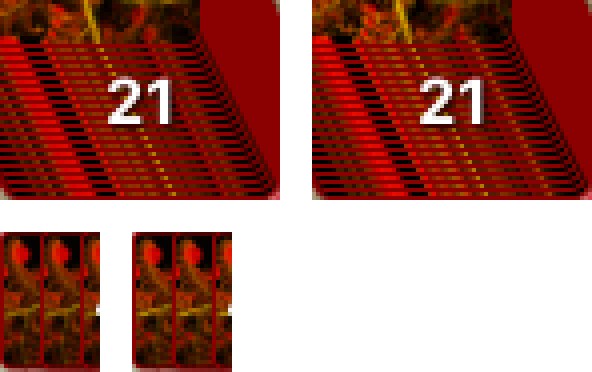
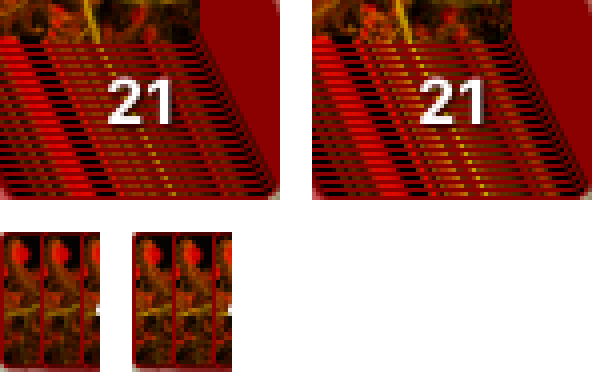
cdom_poc textures: the wood is two pictures of one tile, the table's surfaces (back, pills) and the end screen's (--tex-wood-end), the end screen's made last; tools wait for app_tex_count() textures; the surface test checks each against its own picture's rectangles; textime.mjs BEFORE arm

diff --git a/foolish/c/cdom_poc/src/table_app.c b/foolish/c/cdom_poc/src/table_app.c
@@ -104,7 +104,10 @@ static void deal_new(void) {
   game_seat_and_deal(&G, keys, 2);
 }
 
-enum { TEX_FERN, TEX_WOOD, TEX_WOOL, TEX_DONE }; /* the textures (TEX_ORDER: the order they are made) */
+/* The textures (TEX_ORDER: the order they are made). The wood is two pictures of the same tile:
+ * the surfaces on the table (the back button, the pills), and those of the end screen, which is
+ * made last and shown much later; each is worked out only where its surfaces are. */
+enum { TEX_FERN, TEX_WOOD, TEX_WOOL, TEX_WOOD_END, TEX_DONE, NTEX = TEX_DONE };
 
 static int my_turn_owed(void) { return bot_drive_eligible_mask(&G, game_human_mask(&G)) == 0; }
 
@@ -500,13 +503,16 @@ static void wood_offset(double seed, int32_t *x, int32_t *y) {
   if (sy > WOOD_H - 60) *y = 60;
 }
 
-/* TexturedSurface.tsx getTextureStyle: the wood once it is made (--tex-wood), the stripes before. */
-static cd_str wood_style(double seed) {
+/* TexturedSurface.tsx getTextureStyle: the wood once it is made (--tex-wood, or --tex-wood-end on
+ * the end screen), the stripes before. */
+static cd_str wood_style(double seed, int end) {
   static SB s;
   int32_t x, y;
   wood_offset(seed, &x, &y);
   sb_reset(&s);
-  sb_s(&s, "background-color: rgb(195, 63, 8); background-image: var(--tex-wood, repeating-linear-gradient(90deg, transparent, "
+  sb_s(&s, "background-color: rgb(195, 63, 8); background-image: var(");
+  sb_s(&s, end ? "--tex-wood-end" : "--tex-wood");
+  sb_s(&s, ", repeating-linear-gradient(90deg, transparent, "
            "transparent 1px, rgba(0, 0, 0, 0.1) 1px, rgba(0, 0, 0, 0.1) 2px)); background-size: 1920px 1080px; "
            "background-position: ");
   sb_i(&s, x); sb_s(&s, "px "); sb_i(&s, y);
@@ -525,7 +531,7 @@ static cd_id pill_create(void *ctx, uint32_t i, uint32_t *data) {
   cd_listen(btn, CD_EV_CLICK);
   cd_tag_set(btn, TAG_PILL | PILL[p].bit);
   CLASS("btn-action");
-  cd_attr(S_STYLE, wood_style(PILL[p].seed));
+  cd_attr(S_STYLE, wood_style(PILL[p].seed, 0));
   cd_attr(ZS("data-pill"), cd_internz(PILL[p].label));
   OPEN("span"); CLASS("btn-action-text"); OPEN("span"); cd_text(cd_internz(PILL[p].label)); CLOSE(); CLOSE();
   CLOSE();
@@ -829,13 +835,13 @@ static void render_end(void) {
   cd_text(fool == ME ? ZS("You are the fool") : fool < 0 ? ZS("A draw") : ZS("You won"));
   CLOSE();
   OPEN("div"); CLASS("win-screen__results"); STYLE("width: min(360px, 90vw);");
-  OPEN("div"); CLASS("bg-wood"); cd_attr(S_STYLE, wood_style(SEED_RESULTS)); CLOSE();
+  OPEN("div"); CLASS("bg-wood"); cd_attr(S_STYLE, wood_style(SEED_RESULTS, 1)); CLOSE();
   for (int s = 0; s < V->num_players; s++) if (s != fool) result_row("\xF0\x9F\xA5\x87", s);
   if (fool >= 0) result_row("\xF0\x9F\x83\x8F", fool);
   CLOSE();
   cd_id again = cd_id_new();
   OPEN("button"); cd_listen(again, CD_EV_CLICK); cd_tag_set(again, TAG_AGAIN);
-  CLASS("btn-wood btn-wood--lg"); cd_attr(S_STYLE, wood_style(SEED_AGAIN));
+  CLASS("btn-wood btn-wood--lg"); cd_attr(S_STYLE, wood_style(SEED_AGAIN, 1));
   OPEN("span"); CLASS("btn-wood-text"); OPEN("span"); TEXT("Play again"); CLOSE(); CLOSE();
   CLOSE();
   CLOSE();
@@ -1000,16 +1006,16 @@ enum { PILL_SPAN_W = 76, PILL_SPAN_H = 52 };
 enum { NPILL = sizeof PILL / sizeof *PILL, NSURF = sizeof WOOD_SURF / sizeof *WOOD_SURF };
 enum { WOOD_MARGIN = 4 }; /* a border's width either side, and then some */
 static struct {
-  int stage, nrect;
+  int stage, nrect, nrect_now; /* rect[0, nrect_now): the table's wood; the rest: the end screen's */
   uint8_t *block;
   float *col;
   Fern fern; Wood wood; Wool wool;
-  int32_t fern_w, fern_h, landed, from_store[3];
+  int32_t fern_w, fern_h, landed, from_store[NTEX];
   TexRect rect[WOOD_MAX_WIN];
-  double ms[3], at[3];
-  uint32_t seed[3];
-  char key[3][48];
-  uint32_t klen[3];
+  double ms[NTEX], at[NTEX];
+  uint32_t seed[NTEX];
+  char key[NTEX][48];
+  uint32_t klen[NTEX];
 } tex;
 static uint32_t tex_seed;
 
@@ -1033,11 +1039,12 @@ static void wood_rects_add(TexRect *out, int *n, double seed, int32_t sw, int32_
   }
 }
 
-/* The back button first (it is on the first screen), then the pills, then the end screen. */
-static int wood_rects(TexRect *out) {
+/* The table's surfaces (the back button, the pills), then the end screen's (*now: where they start). */
+static int wood_rects(TexRect *out, int *now) {
   int n = 0;
   wood_rects_add(out, &n, WOOD_SURF[0].seed, WOOD_SURF[0].w, WOOD_SURF[0].h);
   for (int k = 0; k < NPILL; k++) wood_rects_add(out, &n, PILL[k].seed, PILL_SPAN_W, PILL_SPAN_H);
+  *now = n;
   for (int k = 1; k < NSURF; k++) wood_rects_add(out, &n, WOOD_SURF[k].seed, WOOD_SURF[k].w, WOOD_SURF[k].h);
   return n;
 }
@@ -1052,9 +1059,10 @@ static void tex_start(int stage) {
     int32_t points = (int32_t)((double)FERN_APP_POINTS * tex.fern_w * tex.fern_h / (FERN_APP_W * FERN_APP_H));
     fern_begin(&tex.fern, b, b + tex.fern_w * tex.fern_h * 4, tex.fern_w, tex.fern_h, points, rng);
   }
-  if (stage == TEX_WOOD) {
+  if (stage == TEX_WOOD || stage == TEX_WOOD_END) {
     double ox = tex_random(&rng) * 1000 - 500, oy = tex_random(&rng) * 1000 - 500;
-    wood_begin(&tex.wood, tex.col, b, WOOD_W, WOOD_H, ox, oy, tex.rect, tex.nrect);
+    int from = stage == TEX_WOOD ? 0 : tex.nrect_now, to = stage == TEX_WOOD ? tex.nrect_now : tex.nrect;
+    wood_begin(&tex.wood, tex.col, b, WOOD_W, WOOD_H, ox, oy, tex.rect + from, to - from);
   }
   if (stage == TEX_WOOL) {
     tex_random(&rng); tex_random(&rng);
@@ -1067,8 +1075,8 @@ static void tex_start(int stage) {
  * key that names the generator's version and everything the picture depends on (the fern's size,
  * the wood's rectangles), as the app keeps its own in TextureCacheDB; a later load sets the
  * stored bytes and generates nothing. The stored value is the image file. */
-static const char *const TEX_PROP[3] = {"--tex-fern", "--tex-wood", "--tex-wool"};
-static const char *const TEX_MIME[3] = {"image/png", "image/png", "image/jpeg"};
+static const char *const TEX_PROP[NTEX] = {"--tex-fern", "--tex-wood", "--tex-wool", "--tex-wood-end"};
+static const char *const TEX_MIME[NTEX] = {"image/png", "image/png", "image/jpeg", "image/png"};
 
 static void key_add(char *k, uint32_t *n, const char *s) { while (*s && *n < 47) k[(*n)++] = *s++; }
 static void key_num(char *k, uint32_t *n, uint32_t v) {
@@ -1077,16 +1085,19 @@ static void key_num(char *k, uint32_t *n, uint32_t v) {
   while (m && *n < 47) k[(*n)++] = d[--m];
 }
 static void tex_keys(void) {
-  static const char *const NAME[3] = {"foolish-tex-fern-v1-", "foolish-tex-wood-v1-", "foolish-tex-wool-v1-"};
-  for (int k = 0; k < 3; k++) { tex.klen[k] = 0; key_add(tex.key[k], &tex.klen[k], NAME[k]); }
+  static const char *const NAME[NTEX] = {"foolish-tex-fern-v1-", "foolish-tex-wood-v1-", "foolish-tex-wool-v1-", "foolish-tex-wood-v1-"};
+  for (int k = 0; k < NTEX; k++) { tex.klen[k] = 0; key_add(tex.key[k], &tex.klen[k], NAME[k]); }
   key_num(tex.key[0], &tex.klen[0], (uint32_t)tex.fern_w); key_add(tex.key[0], &tex.klen[0], "x");
   key_num(tex.key[0], &tex.klen[0], (uint32_t)tex.fern_h);
-  uint32_t h = 2166136261u; /* FNV-1a over the rectangles */
-  for (int k = 0; k < tex.nrect; k++) {
-    const int32_t v[4] = {tex.rect[k].x, tex.rect[k].y, tex.rect[k].w, tex.rect[k].h};
-    for (int f = 0; f < 4; f++) for (int byte = 0; byte < 4; byte++) h = (h ^ ((uint32_t)v[f] >> (8 * byte) & 0xff)) * 16777619u;
+  for (int part = 0; part < 2; part++) { /* the woods, by FNV-1a over their rectangles */
+    uint32_t h = 2166136261u;
+    for (int k = part ? tex.nrect_now : 0; k < (part ? tex.nrect : tex.nrect_now); k++) {
+      const int32_t v[4] = {tex.rect[k].x, tex.rect[k].y, tex.rect[k].w, tex.rect[k].h};
+      for (int f = 0; f < 4; f++) for (int byte = 0; byte < 4; byte++) h = (h ^ ((uint32_t)v[f] >> (8 * byte) & 0xff)) * 16777619u;
+    }
+    int k = part ? TEX_WOOD_END : TEX_WOOD;
+    key_num(tex.key[k], &tex.klen[k], h);
   }
-  key_num(tex.key[1], &tex.klen[1], h);
   key_num(tex.key[2], &tex.klen[2], WOOL_W); key_add(tex.key[2], &tex.klen[2], "x"); key_num(tex.key[2], &tex.klen[2], WOOL_H);
 }
 
@@ -1100,7 +1111,7 @@ static void tex_land(int k, const uint8_t *p, uint32_t len) {
 }
 
 /* The fern (small, on the card backs), the wool (the whole background), then the wood (the buttons). */
-static const int TEX_ORDER[4] = {TEX_FERN, TEX_WOOL, TEX_WOOD, TEX_DONE};
+static const int TEX_ORDER[NTEX + 1] = {TEX_FERN, TEX_WOOL, TEX_WOOD, TEX_WOOD_END, TEX_DONE};
 static int tex_step, tex_may_make, tex_waiting;
 
 /* The next texture: asked of the store first. */
@@ -1162,7 +1173,7 @@ void cd_on_raf(uint32_t token, double t) {
   int done = 0;
   while (!done && now - t0 < TEX_SLICE_MS) {
     if (tex.stage == TEX_FERN) done = fern_run(&tex.fern, 100000);
-    else if (tex.stage == TEX_WOOD) done = wood_run(&tex.wood, 2);
+    else if (tex.stage == TEX_WOOD || tex.stage == TEX_WOOD_END) done = wood_run(&tex.wood, 2);
     else done = wool_run(&tex.wool, 100000);
     now = cd_now();
   }
@@ -1170,7 +1181,7 @@ void cd_on_raf(uint32_t token, double t) {
   if (!done) { cd_raf_request(RAF_SLICE); return; }
   /* the pixels are copied during the call, so the block is free for the next texture at once */
   if (tex.stage == TEX_FERN) cd_encode_image(tex.fern.px, (uint32_t)tex.fern_w, (uint32_t)tex.fern_h, 4, ZS("image/png"), TEX_FERN);
-  if (tex.stage == TEX_WOOD) cd_encode_image(tex.wood.px, WOOD_W, WOOD_H, 3, ZS("image/png"), TEX_WOOD);
+  if (tex.stage == TEX_WOOD || tex.stage == TEX_WOOD_END) cd_encode_image(tex.wood.px, WOOD_W, WOOD_H, 3, ZS("image/png"), (uint32_t)tex.stage);
   if (tex.stage == TEX_WOOL) cd_encode_image_in(tex.wool.px, WOOL_W, WOOL_H, 3, TEX_W, TEX_H, WOOL_X, WOOL_Y, ZS("image/jpeg"), TEX_WOOL);
   tex_next();
 }
@@ -1183,15 +1194,18 @@ static void textures_begin(void) {
   tex.fern_w = (int32_t)(BACK_W * FERN_SCALE * dpr);
   tex.fern_h = (int32_t)(BACK_H * FERN_SCALE * dpr);
   if (tex.fern_w > FERN_APP_W) { tex.fern_w = FERN_APP_W; tex.fern_h = FERN_APP_H; }
-  tex.nrect = wood_rects(tex.rect);
+  tex.nrect = wood_rects(tex.rect, &tex.nrect_now);
   tex_keys();
   tex_next();
 }
 
 /* For the tests and the README, by texture k (fern, wood, wool): how long making it took on the
  * page's thread (0 when it came from the store), when it landed (cd_now: ms since navigation), and
- * whether it came from the store; k = 3: how many have landed. */
-EXPORT("app_tex_ms") double app_tex_ms(int32_t k) { return k < 3 ? tex.ms[k] : tex.landed; }
+ * whether it came from the store; k = NTEX: how many have landed. */
+EXPORT("app_tex_ms") double app_tex_ms(int32_t k) { return k < NTEX ? tex.ms[k] : tex.landed; }
+/* How many textures there are (fern, wood, wool, the end screen's wood): app_tex_ms(this) == this
+ * when all have landed. */
+EXPORT("app_tex_count") int32_t app_tex_count(void) { return NTEX; }
 EXPORT("app_tex_at") double app_tex_at(int32_t k) { return tex.at[k]; }
 EXPORT("app_tex_stored") int32_t app_tex_stored(int32_t k) { return tex.from_store[k]; }
 /* The seed texture k was made from on this load (0 when it came from the store): the fern's
@@ -1200,6 +1214,7 @@ EXPORT("app_tex_stored") int32_t app_tex_stored(int32_t k) { return tex.from_sto
 EXPORT("app_tex_seed") uint32_t app_tex_seed(int32_t k) { return tex.seed[k]; }
 /* The wood's tile rectangles (x, y, w, h by field 0-3), for the test that every surface lies in one. */
 EXPORT("app_wood_rects") int32_t app_wood_rects(void) { return tex.nrect; }
+EXPORT("app_wood_rects_now") int32_t app_wood_rects_now(void) { return tex.nrect_now; } /* the table's; the rest are the end screen's */
 EXPORT("app_wood_rect") int32_t app_wood_rect(int32_t k, int32_t f) {
   const TexRect *r = &tex.rect[k];
   return f == 0 ? r->x : f == 1 ? r->y : f == 2 ? r->w : r->h;
@@ -1292,7 +1307,7 @@ void cd_main(void) {
 
   OPEN("button");
   CLASS("btn-icon btn-icon--left");
-  cd_attr(S_STYLE, wood_style(SEED_BACK));
+  cd_attr(S_STYLE, wood_style(SEED_BACK, 0));
   OPEN("span"); CLASS("btn-icon__symbol"); TEXT("<"); CLOSE();
   CLOSE();
   CLOSE(); /* container */
